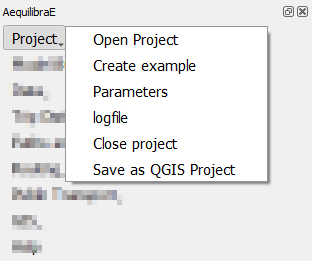
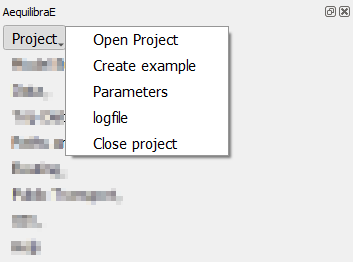
Save aequilibrae project directly from qgis (#330)
* saves directly from qgis

* Update qaequilibrae.py

* docs.

* adds docs

* Update getting_started.rst

diff --git a/qaequilibrae/qaequilibrae.py b/qaequilibrae/qaequilibrae.py
@@ -16,7 +16,7 @@ from qgis.PyQt.QtCore import Qt, QCoreApplication
 from qgis.PyQt.QtWidgets import QVBoxLayout, QApplication
 from qgis.PyQt.QtWidgets import QWidget, QDockWidget, QAction, QMenu, QTabWidget, QCheckBox, QToolBar, QToolButton
 from qgis.core import QgsDataSourceUri, QgsVectorLayer, QgsVectorFileWriter
-from qgis.core import QgsProject
+from qgis.core import QgsProject, QgsExpressionContextUtils
 from qgis.PyQt.QtCore import QTranslator
 
 from qaequilibrae.modules.menu_actions import load_matrices, run_add_connectors, run_stacked_bandwidths, run_tag
@@ -35,7 +35,7 @@ from qaequilibrae.modules.menu_actions import (
     show_log,
     create_example,
 )
-from qaequilibrae.modules.menu_actions import run_pt_explore, save_as_qgis_project
+from qaequilibrae.modules.menu_actions import run_pt_explore
 from qaequilibrae.modules.paths_procedures import run_shortest_path, run_dist_matrix, run_traffic_assig
 from qaequilibrae.message import messages
 
@@ -116,8 +116,6 @@ class AequilibraEMenu:
         self.add_menu_action(self.tr("Project"), self.tr("Parameters"), partial(run_change_parameters, self))
         self.add_menu_action(self.tr("Project"), self.tr("logfile"), partial(show_log, self))
         self.add_menu_action(self.tr("Project"), self.tr("Close project"), self.run_close_project)
-        self.add_menu_action(self.tr("Project"), self.tr("Save as QGIS Project"), partial(save_as_qgis_project, self))
-
         # # # ########################################################################
         # # # ################# MODEL BUILDING SUB-MENU  #######################
         self.add_menu_action(
@@ -205,6 +203,7 @@ class AequilibraEMenu:
         # # # ########################################################################
         # ##################        SAVING PROJECT CONFIGS       #####################
         QgsProject.instance().readProject.connect(self.reload_project)
+
         temp_saving = self.iface.mainWindow().findChild(QAction, "mActionSaveProject")
         if temp_saving:
             temp_saving.triggered.connect(self.save_in_project)
@@ -386,12 +385,21 @@ class AequilibraEMenu:
         qgis.utils.iface.mapCanvas().refresh()
 
     def save_in_project(self):
-        """Saves temporary layers to the project using QGIS saving buttons. Works"""
-        path = QgsProject.instance().customVariables()
-        if "aequilibrae_path" not in path:
+        """Saves temporary layers to the project using QGIS saving buttons."""
+        if not self.project:
             return
-        output_file_path = os.path.join(path["aequilibrae_path"], "qgis_layers.sqlite")
+
+        path = QgsProject.instance().customVariables()
+
+        if "aequilibrae_path" not in path:
+            QgsExpressionContextUtils.setProjectVariable(
+                QgsProject.instance(), "aequilibrae_path", self.project.project_base_path
+            )
+
+        output_file_path = os.path.join(self.project.project_base_path, "qgis_layers.sqlite")
+
         file_exists = True if os.path.isfile(output_file_path) else False
+
         for layer in QgsProject.instance().mapLayers().values():
             if layer.isTemporary():
                 layer_name = layer.name() + f"_{uuid4().hex}"

diff --git a/test/test_qaequilibrae_menu_with_project.py b/test/test_qaequilibrae_menu_with_project.py
@@ -66,18 +66,6 @@ def test_logfile_menu(ae_with_project, qtbot):
     assert len(messagebar.messages[3]) == 0, "Messagebar should be empty" + str(messagebar.messages)
 
 
-def test_save_to_qgis_project(ae_with_project, tmpdir, mocker):
-    file_path = f"{tmpdir}/text.qgz"
-    function = "qaequilibrae.modules.project_procedures.save_as_qgis.SaveAsQGZ.choose_output"
-    mocker.patch(function, return_value=file_path)
-
-    action = ae_with_project.menuActions["Project"][5]
-    assert action.text() == "Save as QGIS Project", "Wrong text content"
-    action.trigger()
-    messagebar = ae_with_project.iface.messageBar()
-    assert len(messagebar.messages[3]) == 0, "Messagebar should be empty" + str(messagebar.messages)
-
-
 def test_network_preparation_menu(ae_with_project, qtbot):
     from qaequilibrae.modules.network import NetworkPreparationDialog
 

diff --git a/test/test_qaequilibrae_menu_without_project.py b/test/test_qaequilibrae_menu_without_project.py
@@ -94,14 +94,6 @@ def test_logfile_menu(ae, qtbot):
     assert messagebar.messages[3][-1] == "Error:You need to load a project first", "Level 3 error message is missing"
 
 
-def test_save_to_qgis_project(ae):
-    action = ae.menuActions["Project"][5]
-    assert action.text() == "Save as QGIS Project", "Wrong text content"
-    action.trigger()
-    messagebar = ae.iface.messageBar()
-    assert messagebar.messages[3][-1] == "Error:You need to load a project first", "Level 3 error message is missing"
-
-
 def test_network_preparation_menu(ae, qtbot):
     from qaequilibrae.modules.network import NetworkPreparationDialog
 

diff --git a/qaequilibrae/modules/menu_actions/__init__.py b/qaequilibrae/modules/menu_actions/__init__.py
@@ -18,4 +18,3 @@ from .project_from_osm_action import project_from_osm
 from .action_pt_import_gtfs import run_import_gtfs
 from .action_create_example import create_example
 from .action_pt_explore import run_pt_explore
-from .action_save_as_qgis_project import save_as_qgis_project

diff --git a/docs/source/menus_in_detail/project.rst b/docs/source/menus_in_detail/project.rst
@@ -80,22 +80,6 @@ using the **save to disk** button in the lower left corner of the log file box.
     :align: center
     :alt: proj logfile
 
-Save as QGIS Project
---------------------
-
-Available since version 1.0.1, the **Project > Save as QGIS Project** allows the user to
-save temporary layers from its current work as a QGIS Project file (\*QGZ). After selecting this command, 
-the user will be required to point to the location where the project file is going to be saved.
-
-After this initial save, the user will notice that a **qgis_layers.sqlite** file is created in the project
-folder. If the user wants to save more temporary layers to the project, it can be done by running the command
-**Project > Save as QGIS Project** every time one wants to save the project or use the QGIS save command. 
-
-Finally, whenever the QGIS Project file with an AequilibraE project is open, its project is automatically
-open, and if the AequilibraE project is closed, its native layers (such as links, nodes, zones) are removed
-from the currently open QGIS project. Notice that if the AequilibraE project is closed, you can still save 
-temporary layers to the **qgis_layers** database case there is an ongoing project.
-
 Video tutorial
 --------------
 

diff --git a/docs/source/getting_started/getting_started.rst b/docs/source/getting_started/getting_started.rst
@@ -57,6 +57,25 @@ plugin will be non-functional.
     :align: center
     :alt: Fifth step
 
+Saving as QGIS Project
+----------------------
+
+Since version 1.0.1, our users can save their on-going projects directly through the QGIS saving menu! 
+This feature allows you to save both your AequilibraE project and temporary layers. The temporary layers
+are stored in **qgis_layer.sqlite**, a database automatically created to store these layers. All you have 
+to do is go to the Project panel and select **Save** or **Save as**, indicate where you want to store 
+your project file, and press save!
+
+.. image:: ../images/getting_started_6.png
+    :align: center
+    :alt: Saving file
+
+In the interest of data integrity, if you have open AequilibraE layers into your QGIS Project and close 
+the AequilibraE project, these layers are removed from your open QGIS project.
+
+When reopening the QGIS project containing an AequilibraE model, you will notice that the project 
+stored is automatically reopened by QAequilibraE.
+
 .. _quicktour_video:
 
 Quick Tour
